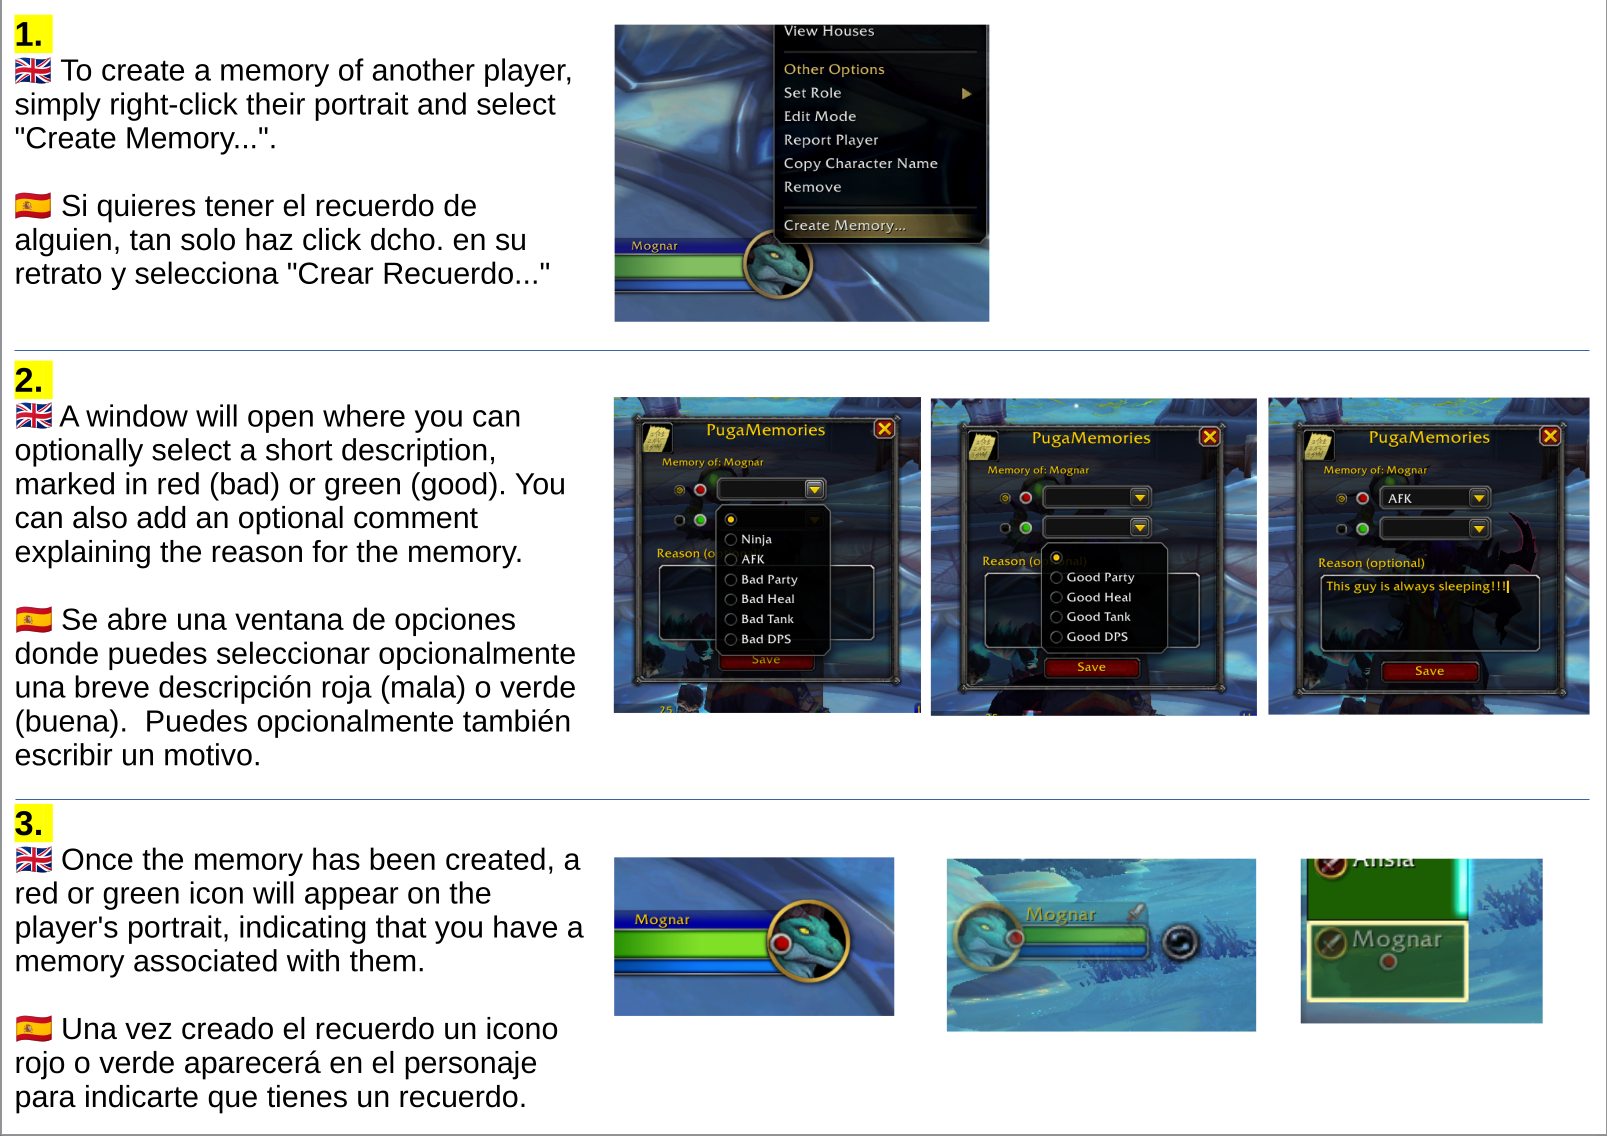
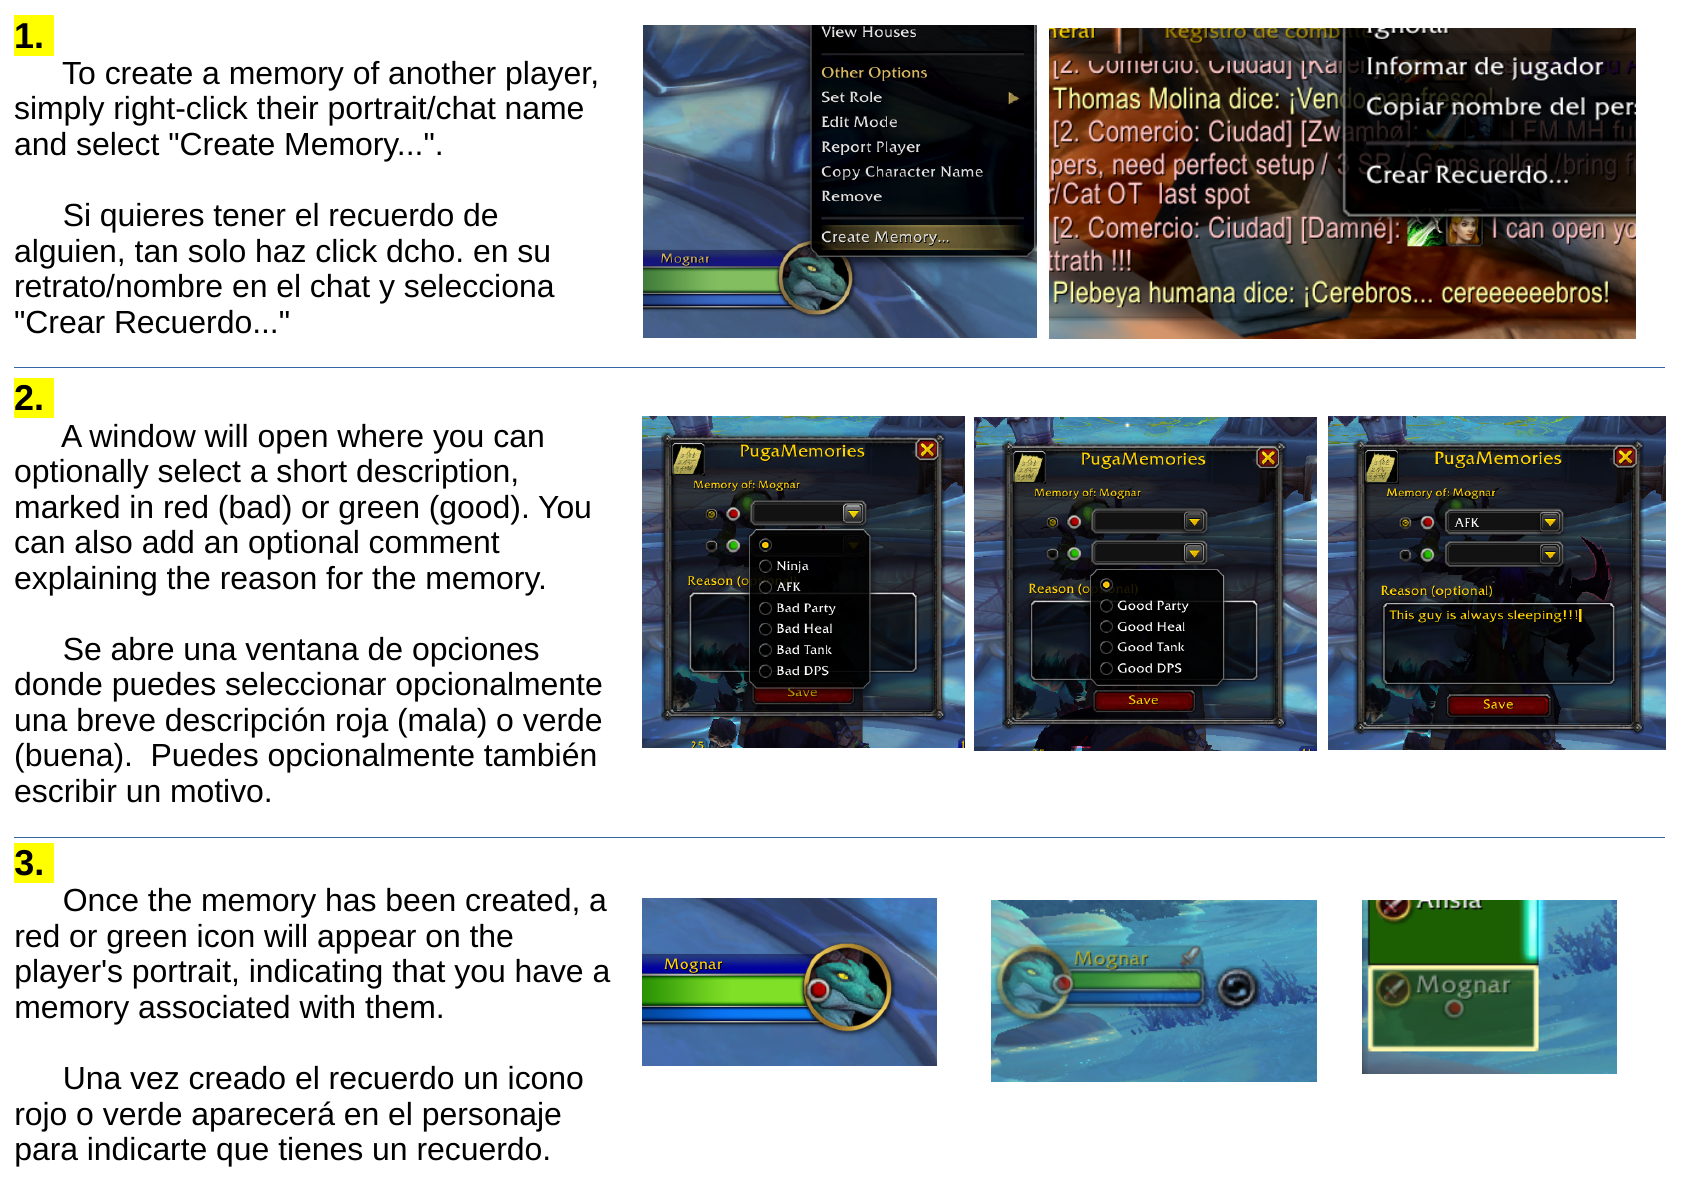
Add Context Menu in Chat

diff --git a/README.md b/README.md
@@ -1,13 +1,14 @@
-# PugaMemories 
+# PugaMemories
+
 A World of Warcraft Addon
 
 ## ENGLISH
 
 PugaMemories is a World of Warcraft addon that lets you save personal notes about other players, marking your experiences with them as positive (green) or negative (red).
 
-Right-click a player's portrait and select "Create Memory..." to save a memory. You can choose a reason and add an optional comment.
+Right-click a player's portrait **or their name in chat** and select "Create Memory..." to save a memory. You can choose a reason and add an optional comment. If you already have a memory of that player, the context menu also offers "Delete Memory...", with a confirmation prompt before deletion.
 
-Each memory automatically records information about both characters, including their names, races, classes, levels, location, and the date and time of the encounter.
+Each memory automatically records information about both characters, including their names, races, classes, location, and the date and time of the encounter. Levels are recorded when available; a player's level may be unknown when creating a memory directly from chat.
 
 When you meet that player again:
 
@@ -18,16 +19,15 @@ When you meet that player again:
 
 All memories are stored locally and are for your personal use.
 
-
---------------------------------------------------
+---
 
 ## ESPAÑOL
 
 PugaMemories es un addon para World of Warcraft que permite guardar notas personales sobre otros jugadores, clasificando las experiencias con ellos como positivas (verde) o negativas (rojo).
 
-Haz clic derecho sobre el retrato de un jugador y selecciona "Crear Recuerdo..." para guardar un recuerdo. Puedes seleccionar un motivo y añadir un comentario opcional.
+Haz clic derecho sobre el retrato de un jugador **o sobre su nombre en el chat** y selecciona "Crear recuerdo..." para guardar un recuerdo. Puedes seleccionar un motivo y añadir un comentario opcional. Si ya tienes un recuerdo de ese jugador, también aparecerá la opción "Borrar recuerdo...", que solicitará confirmación antes de eliminarlo.
 
-Cada recuerdo registra automáticamente información sobre ambos personajes, incluyendo sus nombres, razas, clases, niveles, ubicación y la fecha y hora del encuentro.
+Cada recuerdo registra automáticamente información sobre ambos personajes, incluyendo sus nombres, razas, clases, ubicación y la fecha y hora del encuentro. También registra los niveles cuando están disponibles; al crear un recuerdo desde el chat, el nivel del otro jugador puede ser desconocido.
 
 Cuando vuelvas a encontrarte con ese jugador:
 
@@ -38,36 +38,34 @@ Cuando vuelvas a encontrarte con ese jugador:
 
 Todos los recuerdos se almacenan localmente y son exclusivamente para uso personal.
 
-
---------------------------------------------------
+---
 
 ## PORTUGUÊS
 
 PugaMemories é um addon para World of Warcraft que permite guardar notas pessoais sobre outros jogadores, classificando as experiências com eles como positivas (verde) ou negativas (vermelho).
 
-Clica com o botão direito do rato no retrato de um jogador e seleciona "Create Memory..." para guardar uma memória. Podes escolher um motivo e adicionar um comentário opcional.
+Clica com o botão direito do rato no retrato de um jogador **ou no seu nome no chat** e seleciona "Criar recordação..." para guardar uma recordação. Podes escolher um motivo e adicionar um comentário opcional. Se já existir uma recordação desse jogador, aparecerá também a opção "Excluir recordação...", com um pedido de confirmação antes de a eliminar.
 
-Cada memória regista automaticamente informações sobre ambas as personagens, incluindo os seus nomes, raças, classes, níveis, localização e a data e hora do encontro.
+Cada recordação regista automaticamente informações sobre ambas as personagens, incluindo os seus nomes, raças, classes, localização e a data e hora do encontro. Os níveis também são registados quando estão disponíveis; ao criar uma recordação a partir do chat, o nível do outro jogador pode ser desconhecido.
 
 Quando voltares a encontrar esse jogador:
 
 - Aparecerá um ícone verde ou vermelho no seu retrato, incluindo nos quadros de grupo e raide.
-- Passa o rato sobre o ícone no retrato para consultares os detalhes da memória numa descrição.
+- Passa o rato sobre o ícone no retrato para consultares os detalhes da recordação numa descrição.
 - O mesmo ícone aparecerá junto às suas mensagens no chat.
-- Clica no ícone do chat para consultares os detalhes da memória guardada.
+- Clica no ícone do chat para consultares os detalhes da recordação guardada.
 
-Todas as memórias são guardadas localmente e destinam-se exclusivamente a uso pessoal.
+Todas as recordações são guardadas localmente e destinam-se exclusivamente a uso pessoal.
 
-
---------------------------------------------------
+---
 
 ## FRANÇAIS
 
 PugaMemories est un addon pour World of Warcraft qui permet d'enregistrer des notes personnelles sur d'autres joueurs, en classant les expériences vécues avec eux comme positives (vert) ou négatives (rouge).
 
-Faites un clic droit sur le portrait d'un joueur et sélectionnez « Create Memory... » pour enregistrer un souvenir. Vous pouvez choisir un motif et ajouter un commentaire facultatif.
+Faites un clic droit sur le portrait d'un joueur **ou sur son nom dans le chat**, puis sélectionnez « Créer un souvenir... » pour enregistrer un souvenir. Vous pouvez choisir un motif et ajouter un commentaire facultatif. Si un souvenir de ce joueur existe déjà, l'option « Supprimer le souvenir... » apparaît également et demande confirmation avant la suppression.
 
-Chaque souvenir enregistre automatiquement des informations sur les deux personnages, notamment leurs noms, races, classes, niveaux, ainsi que le lieu, la date et l'heure de la rencontre.
+Chaque souvenir enregistre automatiquement des informations sur les deux personnages, notamment leurs noms, races et classes, ainsi que le lieu, la date et l'heure de la rencontre. Les niveaux sont également enregistrés lorsqu'ils sont disponibles ; lors de la création d'un souvenir depuis le chat, le niveau de l'autre joueur peut être inconnu.
 
 Lorsque vous croisez à nouveau ce joueur :
 
@@ -78,16 +76,15 @@ Lorsque vous croisez à nouveau ce joueur :
 
 Tous les souvenirs sont enregistrés localement et sont destinés exclusivement à votre usage personnel.
 
-
---------------------------------------------------
+---
 
 ## DEUTSCH
 
 PugaMemories ist ein Addon für World of Warcraft, mit dem du persönliche Notizen über andere Spieler speichern und deine Erfahrungen mit ihnen als positiv (grün) oder negativ (rot) kennzeichnen kannst.
 
-Klicke mit der rechten Maustaste auf das Porträt eines Spielers und wähle „Create Memory...“, um eine Erinnerung zu speichern. Du kannst einen Grund auswählen und optional einen Kommentar hinzufügen.
+Klicke mit der rechten Maustaste auf das Porträt eines Spielers **oder auf seinen Namen im Chat** und wähle „Erinnerung erstellen...“, um eine Erinnerung zu speichern. Du kannst einen Grund auswählen und optional einen Kommentar hinzufügen. Wenn bereits eine Erinnerung an diesen Spieler existiert, erscheint zusätzlich „Erinnerung löschen...“. Vor dem Löschen wird eine Bestätigung verlangt.
 
-Jede Erinnerung speichert automatisch Informationen über beide Charaktere, darunter Namen, Völker, Klassen, Stufen sowie Ort, Datum und Uhrzeit der Begegnung.
+Jede Erinnerung speichert automatisch Informationen über beide Charaktere, darunter Namen, Völker und Klassen sowie Ort, Datum und Uhrzeit der Begegnung. Auch die Stufen werden gespeichert, sofern sie verfügbar sind. Wird eine Erinnerung direkt aus dem Chat erstellt, kann die Stufe des anderen Spielers unbekannt sein.
 
 Wenn du diesem Spieler erneut begegnest:
 

diff --git a/CHANGELOG.md b/CHANGELOG.md
@@ -1,3 +1,6 @@
+### 1.2.0
+    - Context Menu now works in the Chat Window
+    
 ### 1.1.4
     - WoW Forever Release Compatibility
     - CheckBoxes set selected with ComboBoxes "On Change" event
